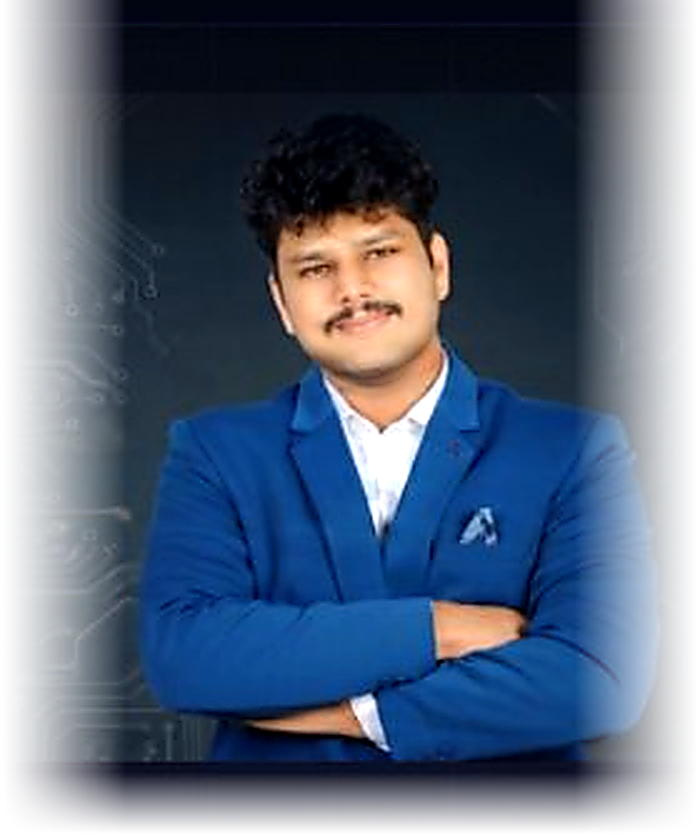
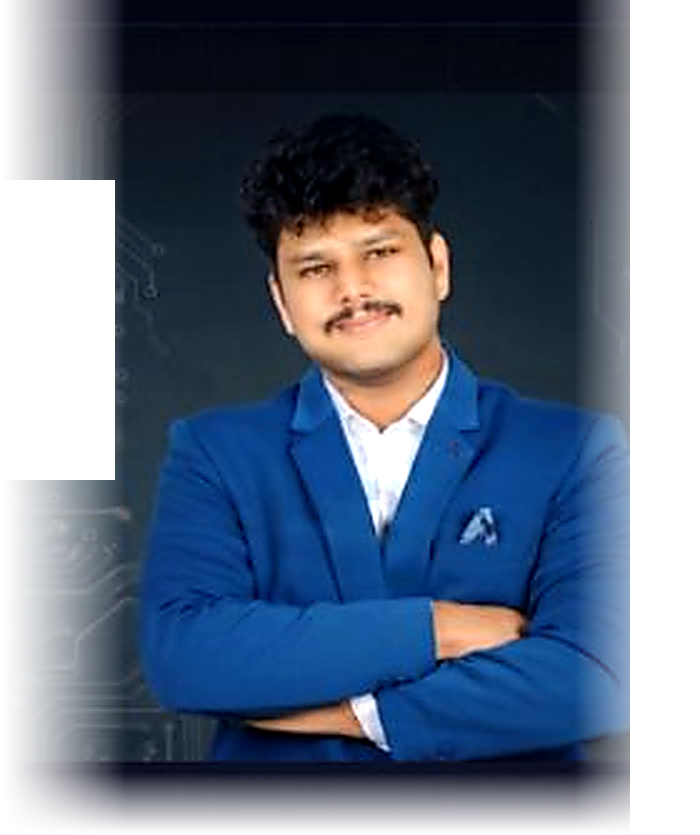
feat(portfolio): implement v1.1 improvements - cert filters, resume action, SEO tags, and UI polish

Changed region(s): [[0.9, 0.0, 0.99, 0.9964], [0.03, 0.218, 0.18, 0.5916]]

diff --git a/index.html b/index.html
@@ -6,8 +6,15 @@
   <title>Shubh Namdeo | Software Engineer & AI Developer</title>
   <meta name="description" content="Portfolio of Shubh Namdeo – Software Engineer specializing in AI Agents, Backend Development, Python, Node.js, and GenAI. Currently seeking full-time opportunities." />
   <meta name="keywords" content="Shubh Namdeo, Software Engineer, AI Agents, Backend Developer, Python, Node.js, GenAI, Salesforce, AWS, Portfolio" />
+  <meta property="og:type" content="website" />
+  <meta property="og:url" content="https://shubhnamdeo.github.io/portfolio-shubh/" />
   <meta property="og:title" content="Shubh Namdeo | Software Engineer & AI Developer" />
-  <meta property="og:description" content="Software Engineer specializing in AI Agents, Backend Architecture, and Generative AI." />
+  <meta property="og:description" content="Software Engineer specializing in AI Agents, Backend Architecture, and Generative AI. Explore projects, certifications, and experience." />
+  <meta property="og:image" content="https://shubhnamdeo.github.io/portfolio-shubh/banner.png" />
+  <meta name="twitter:card" content="summary_large_image" />
+  <meta name="twitter:title" content="Shubh Namdeo | Software Engineer & AI Developer" />
+  <meta name="twitter:description" content="Software Engineer specializing in AI Agents, Backend Architecture, and Generative AI." />
+  <meta name="twitter:image" content="https://shubhnamdeo.github.io/portfolio-shubh/banner.png" />
   <link rel="preconnect" href="https://fonts.googleapis.com" />
   <link rel="preconnect" href="https://fonts.gstatic.com" crossorigin />
   <link href="https://fonts.googleapis.com/css2?family=Inter:wght@300;400;500;600;700;800;900&family=JetBrains+Mono:wght@400;500;600&display=swap" rel="stylesheet" />
@@ -71,6 +78,10 @@
           <svg width="18" height="18" viewBox="0 0 24 24" fill="currentColor"><path d="M20.447 20.452h-3.554v-5.569c0-1.328-.027-3.037-1.852-3.037-1.853 0-2.136 1.445-2.136 2.939v5.667H9.351V9h3.414v1.561h.046c.477-.9 1.637-1.85 3.37-1.85 3.601 0 4.267 2.37 4.267 5.455v6.286zM5.337 7.433c-1.144 0-2.063-.926-2.063-2.065 0-1.138.92-2.063 2.063-2.063 1.14 0 2.064.925 2.064 2.063 0 1.139-.925 2.065-2.064 2.065zm1.782 13.019H3.555V9h3.564v11.452zM22.225 0H1.771C.792 0 0 .774 0 1.729v20.542C0 23.227.792 24 1.771 24h20.451C23.2 24 24 23.227 24 22.271V1.729C24 .774 23.2 0 22.222 0h.003z"/></svg>
           LinkedIn
         </a>
+        <button class="btn-secondary btn-resume" id="heroResumeBtn" title="View Shubh's Verified Resume Summary">
+          <svg width="16" height="16" viewBox="0 0 24 24" fill="none" stroke="currentColor" stroke-width="2"><path d="M14 2H6a2 2 0 0 0-2 2v16a2 2 0 0 0 2 2h12a2 2 0 0 0 2-2V8z"/><polyline points="14 2 14 8 20 8"/><line x1="16" y1="13" x2="8" y2="13"/><line x1="16" y1="17" x2="8" y2="17"/></svg>
+          Resume
+        </button>
         <button class="btn-ghost btn-ai-glow" id="heroAskBtn">
           <span class="ai-spark">✦</span> Ask AI About Me
         </button>
@@ -150,11 +161,11 @@
             </div>
           </div>
           <div class="info-card">
-            <div class="info-icon">🌐</div>
+            <div class="info-icon">🎯</div>
             <div class="info-content">
-              <h4>Connections</h4>
-              <p>338 LinkedIn Followers</p>
-              <span>248 Connections</span>
+              <h4>Core Focus</h4>
+              <p>Full-Stack &amp; AI Agents</p>
+              <span>Node.js · Python · Cloud Architecture</span>
             </div>
           </div>
         </div>
@@ -369,7 +380,7 @@
           <div>
             <div style="display: flex; justify-content: space-between; align-items: flex-start; margin-bottom: 12px;">
               <span style="font-size: 0.75rem; font-weight: 700; color: #4ade80; background: rgba(74, 222, 128, 0.1); padding: 4px 12px; border-radius: 50px;">Full-Stack Application</span>
-              <a href="https://github.com/Shubhnamdeo" target="_blank" style="color: var(--text-primary); font-size: 0.85rem; font-weight: 600; text-decoration: none; display: flex; align-items: center; gap: 4px;">
+              <a href="https://github.com/Shubhnamdeo?tab=repositories" target="_blank" style="color: var(--text-primary); font-size: 0.85rem; font-weight: 600; text-decoration: none; display: flex; align-items: center; gap: 4px;">
                 GitHub Repo ↗
               </a>
             </div>
@@ -452,11 +463,20 @@
         <h2 class="section-title">Certifications &amp; Credentials</h2>
       </div>
 
+      <!-- Category Filter Tabs -->
+      <div class="cert-filter-bar">
+        <button class="cert-filter-btn active" data-filter="all">All <span class="filter-count">19</span></button>
+        <button class="cert-filter-btn" data-filter="ai">AI &amp; GenAI <span class="filter-count">3</span></button>
+        <button class="cert-filter-btn" data-filter="cloud">Cloud &amp; Salesforce <span class="filter-count">3</span></button>
+        <button class="cert-filter-btn" data-filter="security">Security &amp; Networks <span class="filter-count">8</span></button>
+        <button class="cert-filter-btn" data-filter="programming">Programming &amp; Data <span class="filter-count">5</span></button>
+      </div>
+
       <!-- Unified 3xN Grid with All Certificates -->
       <div class="cert-embed-grid cert-embed-grid-3">
 
         <!-- 1. Salesforce LastMile -->
-        <div class="cert-embed-card">
+        <div class="cert-embed-card" data-category="cloud ai">
           <div class="cert-embed-frame-wrap">
             <iframe src="certificates/salesforce-lastmile.pdf#toolbar=0&navpanes=0&scrollbar=0" class="cert-embed-iframe" loading="lazy" title="Salesforce AI Agent Developer"></iframe>
           </div>
@@ -467,7 +487,7 @@
         </div>
 
         <!-- 2. AWS Cloud Foundations -->
-        <div class="cert-embed-card">
+        <div class="cert-embed-card" data-category="cloud">
           <div class="cert-embed-frame-wrap">
             <iframe src="certificates/aws-cloud-foundations.pdf#toolbar=0&navpanes=0&scrollbar=0" class="cert-embed-iframe" loading="lazy" title="AWS Cloud Foundations"></iframe>
           </div>
@@ -478,7 +498,7 @@
         </div>
 
         <!-- IBM Data Fundamentals -->
-        <div class="cert-embed-card">
+        <div class="cert-embed-card" data-category="programming">
           <div class="cert-embed-frame-wrap">
             <iframe src="certificates/ibm-data-fundamentals.pdf#toolbar=0&navpanes=0&scrollbar=0" class="cert-embed-iframe" loading="lazy" title="IBM Data Fundamentals"></iframe>
           </div>
@@ -489,7 +509,7 @@
         </div>
 
         <!-- 3. Prompt Engineering -->
-        <div class="cert-embed-card">
+        <div class="cert-embed-card" data-category="ai">
           <div class="cert-embed-frame-wrap">
             <iframe src="certificates/prompt-engineering.pdf#toolbar=0&navpanes=0&scrollbar=0" class="cert-embed-iframe" loading="lazy" title="Advanced Prompt Engineering"></iframe>
           </div>
@@ -500,7 +520,7 @@
         </div>
 
         <!-- 4. Cloud Security CCSK -->
-        <div class="cert-embed-card">
+        <div class="cert-embed-card" data-category="security cloud">
           <div class="cert-embed-frame-wrap">
             <iframe src="certificates/cloud-security-ccsk.pdf#toolbar=0&navpanes=0&scrollbar=0" class="cert-embed-iframe" loading="lazy" title="Cloud Security Knowledge (CCSK)"></iframe>
           </div>
@@ -511,7 +531,7 @@
         </div>
 
         <!-- 5. CCNA Enterprise Networking -->
-        <div class="cert-embed-card">
+        <div class="cert-embed-card" data-category="security">
           <div class="cert-embed-frame-wrap">
             <iframe src="certificates/ccna-ensa.pdf#toolbar=0&navpanes=0&scrollbar=0" class="cert-embed-iframe" loading="lazy" title="CCNA ENSA"></iframe>
           </div>
@@ -522,7 +542,7 @@
         </div>
 
         <!-- 6. Python Essentials 2 -->
-        <div class="cert-embed-card">
+        <div class="cert-embed-card" data-category="programming">
           <div class="cert-embed-frame-wrap">
             <iframe src="certificates/python-essentials2.pdf#toolbar=0&navpanes=0&scrollbar=0" class="cert-embed-iframe" loading="lazy" title="Python Essentials 2"></iframe>
           </div>
@@ -533,7 +553,7 @@
         </div>
 
         <!-- 7. CPA C++ -->
-        <div class="cert-embed-card">
+        <div class="cert-embed-card" data-category="programming">
           <div class="cert-embed-frame-wrap">
             <iframe src="certificates/cisco-cpp.pdf#toolbar=0&navpanes=0&scrollbar=0" class="cert-embed-iframe" loading="lazy" title="CPA Programming Essentials in C++"></iframe>
           </div>
@@ -544,7 +564,7 @@
         </div>
 
         <!-- 8. GDGC GitHub -->
-        <div class="cert-embed-card">
+        <div class="cert-embed-card" data-category="programming">
           <div class="cert-embed-frame-wrap">
             <iframe src="certificates/gdgc-github.pdf#toolbar=0&navpanes=0&scrollbar=0" class="cert-embed-iframe" loading="lazy" title="GDGC GitHub Certificate"></iframe>
           </div>
@@ -557,7 +577,7 @@
 
 
         <!-- 10. Cybersecurity Essentials -->
-        <div class="cert-embed-card">
+        <div class="cert-embed-card" data-category="security">
           <div class="cert-embed-frame-wrap">
             <iframe src="certificates/cisco-cert2.pdf#toolbar=0&navpanes=0&scrollbar=0" class="cert-embed-iframe" loading="lazy" title="Cybersecurity Essentials"></iframe>
           </div>
@@ -568,7 +588,7 @@
         </div>
 
         <!-- 11. Intro to Cybersecurity -->
-        <div class="cert-embed-card">
+        <div class="cert-embed-card" data-category="security">
           <div class="cert-embed-frame-wrap">
             <iframe src="certificates/cisco-cert3.pdf#toolbar=0&navpanes=0&scrollbar=0" class="cert-embed-iframe" loading="lazy" title="Intro to Cybersecurity"></iframe>
           </div>
@@ -579,7 +599,7 @@
         </div>
 
         <!-- 12. Networking Essentials -->
-        <div class="cert-embed-card">
+        <div class="cert-embed-card" data-category="security">
           <div class="cert-embed-frame-wrap">
             <iframe src="certificates/cisco-cert4.pdf#toolbar=0&navpanes=0&scrollbar=0" class="cert-embed-iframe" loading="lazy" title="Networking Essentials"></iframe>
           </div>
@@ -590,7 +610,7 @@
         </div>
 
         <!-- 13. Cisco Packet Tracer -->
-        <div class="cert-embed-card">
+        <div class="cert-embed-card" data-category="security">
           <div class="cert-embed-frame-wrap">
             <iframe src="certificates/cisco-cert5.pdf#toolbar=0&navpanes=0&scrollbar=0" class="cert-embed-iframe" loading="lazy" title="Cisco Packet Tracer"></iframe>
           </div>
@@ -601,7 +621,7 @@
         </div>
 
         <!-- 14. Introduction to IoT -->
-        <div class="cert-embed-card">
+        <div class="cert-embed-card" data-category="security programming">
           <div class="cert-embed-frame-wrap">
             <iframe src="certificates/cisco-cert1.pdf#toolbar=0&navpanes=0&scrollbar=0" class="cert-embed-iframe" loading="lazy" title="Introduction to IoT"></iframe>
           </div>
@@ -612,7 +632,7 @@
         </div>
 
         <!-- 15. AICTE Cisco Virtual Internship -->
-        <div class="cert-embed-card">
+        <div class="cert-embed-card" data-category="security">
           <div class="cert-embed-frame-wrap">
             <iframe src="certificates/aicte-cisco8.pdf#toolbar=0&navpanes=0&scrollbar=0" class="cert-embed-iframe" loading="lazy" title="AICTE Cisco Virtual Internship"></iframe>
           </div>
@@ -623,7 +643,7 @@
         </div>
 
         <!-- 16. AICTE Cisco Program Completion -->
-        <div class="cert-embed-card">
+        <div class="cert-embed-card" data-category="security">
           <div class="cert-embed-frame-wrap">
             <iframe src="certificates/aicte-cisco9.pdf#toolbar=0&navpanes=0&scrollbar=0" class="cert-embed-iframe" loading="lazy" title="AICTE Cisco Program Completion"></iframe>
           </div>
@@ -634,7 +654,7 @@
         </div>
 
         <!-- 17. Networking & Security Specialist -->
-        <div class="cert-embed-card">
+        <div class="cert-embed-card" data-category="security">
           <div class="cert-embed-frame-wrap">
             <iframe src="certificates/misc-cert1.pdf#toolbar=0&navpanes=0&scrollbar=0" class="cert-embed-iframe" loading="lazy" title="Networking & Security Certificate"></iframe>
           </div>
@@ -645,7 +665,7 @@
         </div>
 
         <!-- 18. Network Security Architecture -->
-        <div class="cert-embed-card">
+        <div class="cert-embed-card" data-category="security">
           <div class="cert-embed-frame-wrap">
             <iframe src="certificates/cert-e42b.pdf#toolbar=0&navpanes=0&scrollbar=0" class="cert-embed-iframe" loading="lazy" title="Network Security Architecture"></iframe>
           </div>
@@ -746,7 +766,7 @@
       <div class="footer-content">
         <span class="footer-logo"><span class="logo-bracket">&lt;</span>SN<span class="logo-bracket">/&gt;</span></span>
         <p>© 2026 Shubh Namdeo. Built with ❤ and a touch of AI.</p>
-        <p class="footer-sub">Greater Jabalpur, India · Open to Work</p>
+        <p class="footer-sub">Andheri East, Mumbai, MH · Open to Work (Remote / Relocation)</p>
 
         <p class="footer-views" style="color: rgba(255,255,255,0.5); font-size: 0.85rem; margin-top: 0.5rem;">Views: <span id="visit-count">—</span></p>      </div>
     </div>

diff --git a/script.js b/script.js
@@ -421,6 +421,7 @@ const chatMsgs   = document.getElementById('chatMessages');
 const chatTyping = document.getElementById('chatTyping');
 const openChatBtn   = document.getElementById('openChatBtn');
 const heroAskBtn    = document.getElementById('heroAskBtn');
+const heroResumeBtn = document.getElementById('heroResumeBtn');
 const contactAskBtn = document.getElementById('contactAskBtn');
 
 function openChat() {
@@ -437,6 +438,10 @@ function closeChat() {
 chatFab.addEventListener('click', openChat);
 openChatBtn?.addEventListener('click', openChat);
 heroAskBtn?.addEventListener('click', openChat);
+heroResumeBtn?.addEventListener('click', () => {
+  openChat();
+  sendMessage("Can I see his resume?");
+});
 contactAskBtn?.addEventListener('click', openChat);
 chatClose.addEventListener('click', closeChat);
 
@@ -682,6 +687,35 @@ function initCertCards() {
   });
 }
 
+function initCertFilters() {
+  const filterBtns = document.querySelectorAll('.cert-filter-btn');
+  const certCards = document.querySelectorAll('.cert-embed-card');
+
+  if (!filterBtns.length || !certCards.length) return;
+
+  filterBtns.forEach(btn => {
+    btn.addEventListener('click', () => {
+      filterBtns.forEach(b => b.classList.remove('active'));
+      btn.classList.add('active');
+
+      const filter = btn.dataset.filter;
+
+      certCards.forEach(card => {
+        if (filter === 'all') {
+          card.classList.remove('hidden');
+        } else {
+          const categories = (card.dataset.category || '').split(' ');
+          if (categories.includes(filter)) {
+            card.classList.remove('hidden');
+          } else {
+            card.classList.add('hidden');
+          }
+        }
+      });
+    });
+  });
+}
+
 // ─── Init ─────────────────────────────────────────────────────────
 document.addEventListener('DOMContentLoaded', () => {
   typeNext();
@@ -689,6 +723,7 @@ document.addEventListener('DOMContentLoaded', () => {
   createParticles();
   positionBadges();
   initCertCards();
+  initCertFilters();
 
   window.addEventListener('resize', positionBadges);
 

diff --git a/style.css b/style.css
@@ -2271,3 +2271,89 @@ body {
     grid-template-columns: 1fr;
   }
 }
+
+/* ---------- Resume Button in Hero ---------- */
+.btn-resume {
+  background: rgba(255, 255, 255, 0.05);
+  border: 1px solid rgba(255, 255, 255, 0.15);
+  cursor: pointer;
+  transition: all 0.3s cubic-bezier(0.4, 0, 0.2, 1);
+}
+.btn-resume:hover {
+  background: rgba(99, 120, 255, 0.15);
+  border-color: var(--accent);
+  color: #fff;
+  transform: translateY(-2px);
+  box-shadow: 0 4px 20px rgba(99, 120, 255, 0.25);
+}
+
+/* ---------- Certifications: Category Filter Bar ---------- */
+.cert-filter-bar {
+  display: flex;
+  flex-wrap: wrap;
+  align-items: center;
+  justify-content: center;
+  gap: 10px;
+  margin-bottom: 36px;
+}
+
+.cert-filter-btn {
+  display: inline-flex;
+  align-items: center;
+  gap: 8px;
+  padding: 8px 18px;
+  font-size: 0.85rem;
+  font-weight: 600;
+  font-family: inherit;
+  color: var(--text-secondary);
+  background: rgba(255, 255, 255, 0.03);
+  border: 1px solid var(--border);
+  border-radius: 9999px;
+  cursor: pointer;
+  transition: all 0.25s ease;
+}
+
+.cert-filter-btn:hover {
+  color: var(--text-primary);
+  border-color: rgba(99, 120, 255, 0.4);
+  background: rgba(99, 120, 255, 0.06);
+  transform: translateY(-1px);
+}
+
+.cert-filter-btn.active {
+  color: #fff;
+  background: linear-gradient(135deg, rgba(99, 120, 255, 0.25) 0%, rgba(138, 92, 246, 0.25) 100%);
+  border-color: var(--accent);
+  box-shadow: 0 4px 20px rgba(99, 120, 255, 0.2);
+}
+
+.cert-filter-btn .filter-count {
+  font-size: 0.72rem;
+  padding: 2px 7px;
+  border-radius: 12px;
+  background: rgba(255, 255, 255, 0.08);
+  color: var(--text-muted);
+  font-family: 'JetBrains Mono', monospace;
+  font-weight: 500;
+  transition: all 0.25s ease;
+}
+
+.cert-filter-btn.active .filter-count {
+  background: rgba(99, 120, 255, 0.35);
+  color: #fff;
+}
+
+.cert-embed-card.hidden {
+  display: none !important;
+}
+
+@media (max-width: 600px) {
+  .cert-filter-bar {
+    gap: 6px;
+    margin-bottom: 24px;
+  }
+  .cert-filter-btn {
+    padding: 6px 12px;
+    font-size: 0.78rem;
+  }
+}
